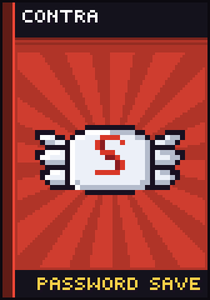
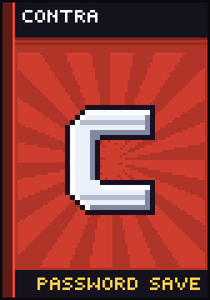
feat(art): draw contra as its title c

Changed region(s): [[0.1429, 0.33, 0.8857, 0.72]]

diff --git a/tools/gen_theme_art.py b/tools/gen_theme_art.py
@@ -1183,16 +1183,15 @@ def star_fox(p):  # arwing, seen from the front
     p.o(0, 17, 4)
 
 
-def contra(p):  # the winged weapon capsule with its S
-    wing = [(16, -8), (30, -24), (50, -28), (44, -18), (52, -12), (42, -4), (46, 4), (20, 8)]
-    for side in (wing, mirror(wing)):
-        p.pg(side, 2)
-        with p.inside(rounded(side, 2)):
-            s = 1 if side is wing else -1
-            p.l([(s * 16, -10), (s * 44, -18)], 0)
-            p.l([(s * 16, 0), (s * 42, -4)], 0)
-    p.o(0, -2, 24, 18, opaque=True)
-    p.path(arc(0, -8.5, 8, 6.5, 325, 90) + arc(0, 4.5, 8, 6.5, 270, 505)[1:])
+def contra(p):  # the title's C: a heavy block letter, chamfered and slanted, with a bevel line
+    def slant(pts):
+        return [(x - 0.22 * y, y) for x, y in pts]
+
+    letter = slant([(-16, -42), (38, -42), (38, -22), (-10, -22), (-10, 22), (38, 22), (38, 42), (-16, 42),
+                    (-34, 24), (-34, -24)])
+    p.pg(letter, 2.5)
+    with p.inside(rounded(letter, 2.5)):
+        p.l(slant([(44, -32), (-12, -32), (-22, -22), (-22, 22), (-12, 32), (44, 32)]), 2)
 
 
 def ninja_gaiden(p):  # katana and a shuriken
@@ -1280,7 +1279,7 @@ ART = {
     "ys": (ys, (38, 112, 124), -6, 0.9, (-14, 0)),
     "horses": (horses, (150, 96, 60), -5, 0.95, (-34, 0)),
     "star-fox": (star_fox, (46, 92, 168), -6, 1.0, (-10, 0)),
-    "contra": (contra, (176, 52, 40), -6, 1.0, (-20, 0)),
+    "contra": (contra, (176, 52, 40), -6, 1.0, (-14, 0)),
     "ninja-gaiden": (ninja_gaiden, (92, 40, 110), 0, 1.0, (-6, 0)),
     "gradius": (gradius, (34, 74, 120), -6, 0.9, (-22, 0)),
     "metal-slug": (metal_slug, (120, 110, 56), -4, 1.0, (-14, 0)),
